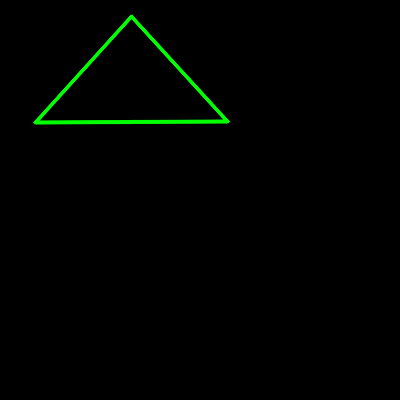
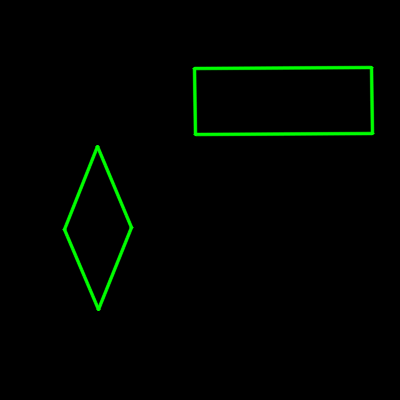
modify some part

diff --git a/GUI/rule_editor.py b/GUI/rule_editor.py
@@ -24,6 +24,8 @@ class EditorFrame(wx.Frame):
                                                           wx.MAXIMIZE_BOX))
         self.SetSize(size)
         self.Center()
+        self.ps = wx.StaticText(self, label='IF part using \'AND\' to combine antecedent. Please ONE antecedent per line',
+                                pos=(10, 5), size=(40 ,100))
         self.ifLabel = wx.StaticText(self, label='IF: ', pos=(10, 30), size=(40, 50))
         self.thenLabel = wx.StaticText(self, label='THEN: ', pos=(10, 250), size=(40, 50))
         self.descriptionLabel = wx.StaticText(self, label='Description: ', pos=(10, 280), size=(40, 50))

diff --git a/GUI/main_frame.py b/GUI/main_frame.py
@@ -36,6 +36,8 @@ def get_result(results):
 def get_matched_facts(facts, contour_num):
     s = ''
     for i in range(contour_num):
+        if facts['Contour' + str(i)]:
+            s += '---- Shape %d ----\n' % i
         for fact in facts['Contour' + str(i)]:
             s += (fact.fact + '\n')
     return s
@@ -44,6 +46,8 @@ def get_matched_facts(facts, contour_num):
 def get_hit_rules(rules, contour_num):
     s = ''
     for i in range(contour_num):
+        if rules['Contour' + str(i)]:
+            s += '---- Shape %d ----\n' % i
         for rule in rules['Contour' + str(i)]:
             s += str(rule)
     return s

diff --git a/GUI/shape_items.py b/GUI/shape_items.py
@@ -54,7 +54,9 @@ tree = [
         ['parallelogram', [
             ['rectangle', [
                 'square',
-            ]]]],
+            ]],
+            'rhombus',
+        ]],
         ['trapezoid', [
             'isosceles trapezoid',
             'right trapezoid',

diff --git a/README.md b/README.md
@@ -1,2 +1,54 @@
-# Rule-based_Expert_System
-a repository for &lt;Artificial Intelligence> course project
+## 基于规则的专家系统 -- 图形检测
+### 前言
+此项目是**人工智能**的课程项目。具体要求为实现一个*基于规则的专家系统*， 用来进行简单直线型几何图形的形状检测。  
+项目实现的重点在于**规则的表示**， **推理机的构建**， **知识库的构建**， **图形的预处理** 和 **用户界面**。  
+项目实现语言为Python，图形预处理用到了OpenCV， 用户界面用到了wxPython。  
+如有任何对项目的改进建议，欢迎评论。 :~) 
+
+### 目录
+1. [概述](#general)
+
+### <a name='general'></a>概述
+图形检测专家系统的运作流程为：  
+
+* 通过图形预处理得到一组基本事实（即图形中各线段端点坐标）
+* 处理这一组基本事实，产生专家系统的事实库
+* 推理引擎读取外部的规则文档，产生规则库
+* 推理引擎读入事实库
+* 采用后向链接推理技术进行推理
+* 推理过程中记录触发的规则和符合规则的事实
+* 绘制出用户所要检测的图形的位置
+* 在用户界面中显示出来  
+
+图形检测专家系统还提供另外的功能，包括：
+
+* 提供规则编辑器，用于增添新的规则
+* 展示目前的规则库
+* 展示当前检测图片的事实库 
+
+图形检测专家系统目前支持检测的图形包括：
+
+* 三角形
+    * 锐角三角形
+    * 直角三角形
+    * 钝角三角形
+    * 等腰三角形
+        * 直角等腰三角形
+        * 锐角等腰三角形
+        * 钝角等腰三角形
+    * 等边三角形
+* 四边形
+    * 平行四边形
+        * 矩形
+            * 正方形
+        * 菱形
+    * 梯形
+        * 等腰梯形
+        * 直角梯形      
+* 五边形
+    * 正五边形
+* 六边形
+    * 正六边形
+
+图形检测专家系统支持不同位置，各种形态，各种大小的图形检测，且支持一张图片多个图形的检测。
+
